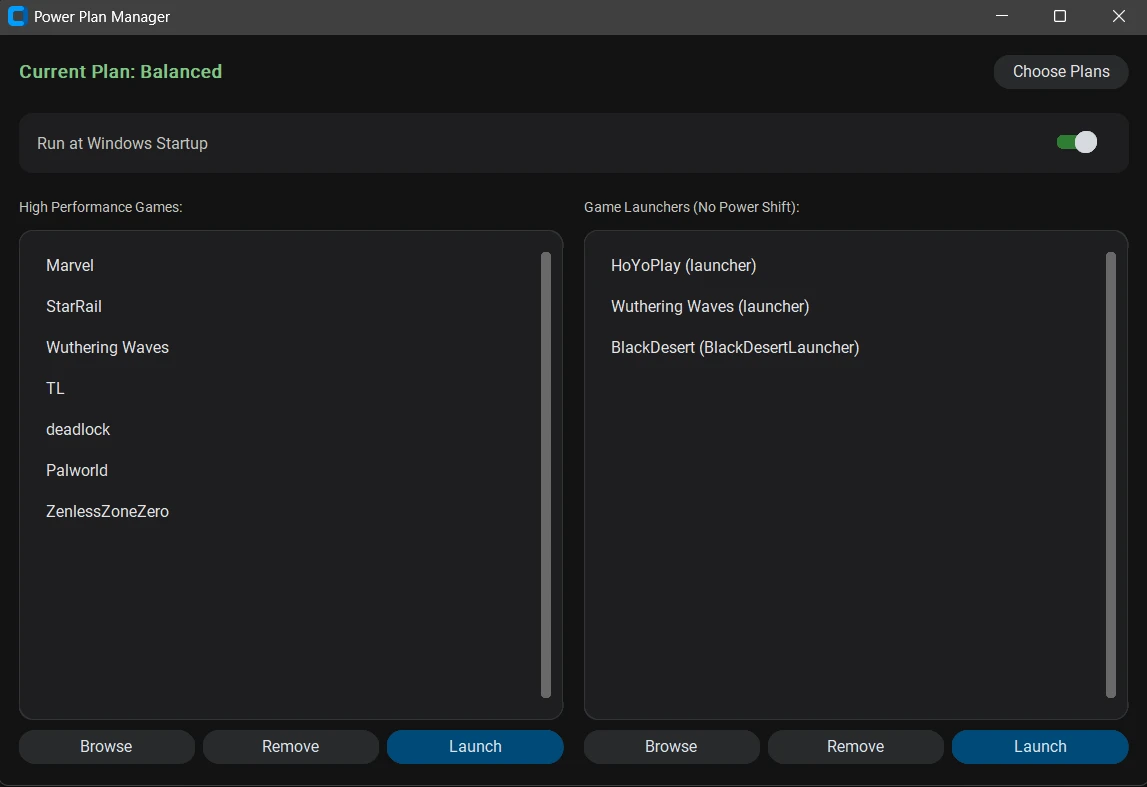
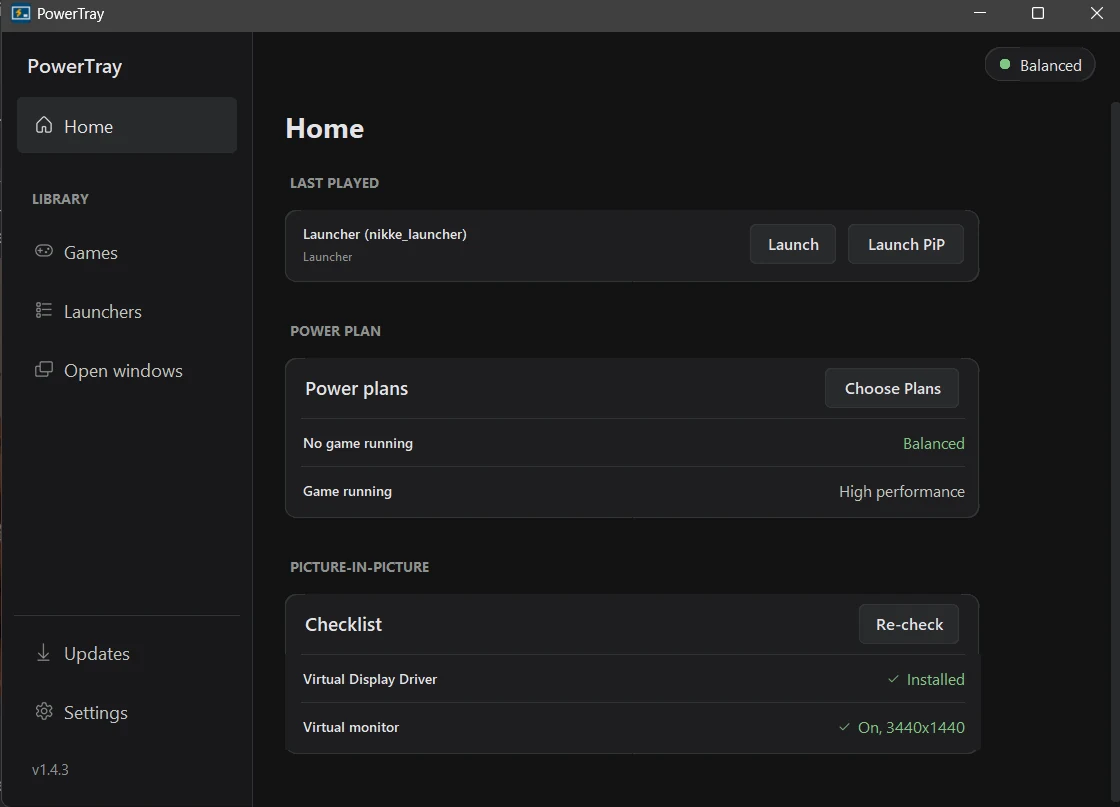
Update PowerTray for its redesign and PiP, and add Daeva Kit
PowerTray's repo is now private, so its repo and release links are
removed; the copy covers picture-in-picture and the screenshots show the
new window. Daeva Kit is listed without links, with sample-data
screenshots.

diff --git a/src/data/projects.ts b/src/data/projects.ts
@@ -4,6 +4,13 @@ import aiWeights from '../assets/projects/ai-game-recommender/model-weights.webp
 import aion2Calculator from '../assets/projects/aion2-crafting-calculator/calculator.webp'
 import clipperAddonsCard from '../assets/projects/clipper-for-youtube/addons-card.webp'
 import clipperPanel from '../assets/projects/clipper-for-youtube/clip-panel.webp'
+import daevaHome from '../assets/projects/daeva-kit/home.webp'
+import daevaStopBar from '../assets/projects/daeva-kit/stop-bar.webp'
+import daevaPingAlert from '../assets/projects/daeva-kit/ping-alert.webp'
+import daevaSpellIcons from '../assets/projects/daeva-kit/spell-icons.webp'
+import daevaPetsPanel from '../assets/projects/daeva-kit/pets-panel.webp'
+import daevaRadar from '../assets/projects/daeva-kit/radar-page.webp'
+import daevaWeather from '../assets/projects/daeva-kit/weather-page.webp'
 import engineMain from '../assets/projects/engine-optimizer/main-window.webp'
 import ilvlDashboard from '../assets/projects/ilvl-upgrade-odds/dashboard.webp'
 import lolRoc from '../assets/projects/lol-win-predictor/roc-comparison.webp'
@@ -15,7 +22,7 @@ import parallelConsole from '../assets/projects/parallel-name-sort/console-outpu
 import pokedexNotFound from '../assets/projects/pokedex/not-found.webp'
 import pokedexResult from '../assets/projects/pokedex/search-result.webp'
 import powertrayMain from '../assets/projects/powertray/main-window.webp'
-import powertrayPlans from '../assets/projects/powertray/plan-picker.webp'
+import powertrayPip from '../assets/projects/powertray/pip-window.webp'
 import powertrayTray from '../assets/projects/powertray/tray-menu.webp'
 import videoEditorMain from '../assets/projects/simple-video-editor/main-window.webp'
 import steamAdd from '../assets/projects/steam-backlog-manager/add-game.webp'
@@ -25,7 +32,7 @@ import marketplaceTracker from '../assets/projects/tl-marketplace-trackers/poten
 import tlStatDefVsCrit from '../assets/projects/tl-stat-calculator/def-vs-crit.webp'
 
 // Mirrors CONTENT.md. Update CONTENT.md first, then this file.
-// Private repos are intentionally not listed yet (see TASKS.md).
+// Private repos are listed without repo or release links (see CONTENT.md).
 
 export const projects: Project[] = [
   // Personal projects
@@ -34,42 +41,49 @@ export const projects: Project[] = [
     name: 'PowerTray',
     category: 'personal',
     summary:
-      'Windows tray utility that switches to the High Performance power plan while games run, then back to Balanced when they close.',
+      'Windows tray utility that switches to High Performance while games run and plays any game in a floating picture-in-picture window.',
     overview:
-      "A lightweight Windows utility that sits in the system tray and watches for the games you choose. When one starts, it switches Windows to the High Performance power plan; when it closes, it switches back to Balanced. A dashboard manages the game list, launchers that shouldn't trigger a switch, and which power plans to use.",
-    tech: ['Python', 'PyQt6', 'CustomTkinter', 'psutil', 'PyInstaller'],
-    repoUrl: 'https://github.com/Oralino/PowerTrayOptimizer',
-    releaseUrl: 'https://github.com/Oralino/PowerTrayOptimizer/releases/latest',
+      "A Windows utility that sits in the system tray and switches Windows to the High Performance power plan while the games you choose are running, then back to Balanced when they close. It can also play any game, launcher or open window as a floating picture-in-picture player, like a browser's pop-out video: the game keeps running at full resolution on an invisible virtual monitor while a small always-on-top window shows it live and passes your mouse and keyboard through.",
+    tech: [
+      'Python',
+      'CustomTkinter',
+      'PyQt6',
+      'pywin32',
+      'psutil',
+      'PyInstaller',
+    ],
     featured: true,
     features: [
-      'Multi-threaded monitoring of configured game processes with psutil',
-      'Switches between Balanced and High Performance power plans through Windows powercfg',
-      'Drag-and-drop executable management, configurable power plans and Windows startup integration',
-      'Real-time tray status indicators',
-      'Extracts executable icons through the Win32 API',
-      'Parses Steam appmanifest files to launch installed Steam games by app ID',
+      'Watches the configured game processes with psutil and switches power plans through Windows powercfg',
+      'Picture-in-picture for any game, launcher or open window: a live DWM thumbnail of the game, which runs on a virtual monitor from the bundled Virtual Display Driver',
+      'Click into the PiP to play: the mouse and keyboard go to the game, and holding Alt gives the cursor back',
+      "Switches a fullscreen game to windowed for the PiP and back afterwards, and remembers each program's PiP size",
+      'Sidebar window with Home, Games, Launchers and Open windows pages; drag in .exe files or shortcuts, which keep their launch arguments',
+      "Tray menu with the games' extracted icons, Launch in PiP and Steam Library, plus self-updates checked by size and SHA-256",
     ],
     images: [
       {
         src: powertrayMain,
-        width: 1147,
-        height: 787,
-        alt: 'PowerTray main window: current plan Balanced, a Run at Windows Startup toggle, and lists of high-performance games and game launchers',
-        caption: 'Main window with the game and launcher lists',
+        width: 1120,
+        height: 807,
+        alt: "PowerTray's Home page: a sidebar with Home, Games, Launchers, Open windows, Updates and Settings; the last played launcher with Launch and Launch PiP buttons; Balanced when no game is running and High performance when one is; and a PiP checklist with the Virtual Display Driver installed and the virtual monitor on at 3440x1440",
+        caption:
+          'Home page with the last played game, power plans and PiP checklist',
+      },
+      {
+        src: powertrayPip,
+        width: 2000,
+        height: 815,
+        alt: "PowerTray's window on the left showing High Performance while Wuthering Waves plays in a floating picture-in-picture window at the bottom right, both in front of a white canvas",
+        caption:
+          'A game playing in the picture-in-picture window, in front of other windows',
       },
       {
         src: powertrayTray,
-        width: 322,
-        height: 517,
-        alt: 'Tray menu listing configured games and launchers with their icons, plus Steam Library, Show Window and Exit',
-        caption: 'Tray menu with extracted game icons',
-      },
-      {
-        src: powertrayPlans,
-        width: 450,
-        height: 311,
-        alt: 'Select Power Plans dialog with dropdowns for the Balanced and High Performance plans',
-        caption: 'Choosing which power plans to switch between',
+        width: 440,
+        height: 675,
+        alt: 'Tray menu listing games and launchers with their icons, then Launch in PiP and PiP a running window submenus, Steam Library, Show Window and Exit',
+        caption: 'Tray menu with Launch in PiP',
       },
     ],
   },
@@ -147,6 +161,85 @@ export const projects: Project[] = [
         height: 72,
         alt: "Clipper for YouTube in Firefox's add-ons manager, switched on",
         caption: "Installed in Firefox's add-ons manager",
+      },
+    ],
+  },
+  {
+    slug: 'daeva-kit',
+    name: 'Daeva Kit',
+    category: 'personal',
+    summary:
+      "Windows toolkit for AION 2 that reads the game's own network traffic for a minimap radar, ping meter, skill cooldowns and pet tracking.",
+    overview:
+      "A Windows toolkit for AION 2: one tray app with a page per tool. It reads the game client's own network traffic and the screen, then draws click-through overlays over the game: a radar that marks nearby cubes on the minimap with their distance and direction, markers on the world map, a ping meter with lag alerts, skill cooldown and buff icons, and a panel for the pet souls you're farming. It never sends or changes packets, touches the game's memory or automates input.",
+    tech: [
+      'Python',
+      'Scapy',
+      'Npcap',
+      'NumPy',
+      'mss',
+      'Tkinter',
+      'PyInstaller',
+    ],
+    features: [
+      "Read-only packet capture with Scapy and Npcap, decoding the game's LZ4-compressed messages; works through ping boosters like ExitLag via loopback capture",
+      'Minimap radar with distance rings, a line to the nearest cube and toasts; finds the minimap on screen by itself and learns new spawn types from clips you mark in game',
+      "Ping meter with the in-game ping, the network round-trip and the last minute's maximum, and lag alerts that say whether a spike came from the PC, the network or the server",
+      "Skill cooldown and buff icons you place anywhere over the game, with key capture and snapping into rows; skill names and icons from NC's public character pages",
+      "Pet panel with the souls the pet you're farming needs for its next level, and which monsters in view drop pet souls",
+      'World map markers with a category filter, and a bar at the minimap with Stop, the ping, the weather from Open-Meteo and a button for the NotMeter DPS meter',
+      'Tray app with a setup checklist, Start with Windows, a global Play / Stop hotkey and self-updates checked by size and SHA-256; overlays hidden from screen capture',
+    ],
+    images: [
+      {
+        src: daevaHome,
+        width: 900,
+        height: 640,
+        alt: "Daeva Kit's Home page: a sidebar with Radar, Pets, Spells, World map, DPS meter, Ping meter and Weather; a green Play button; and a checklist with Npcap installed, Administrator yes, minimap set up and game found",
+        caption: 'Home page with the before-playing checklist',
+      },
+      {
+        src: daevaStopBar,
+        width: 528,
+        height: 67,
+        alt: 'The bar at the minimap: a status dot, Stop, DPS, a 38 ms ping, 18°C with a cloudy weather icon, and a move handle',
+        caption:
+          'The bar at the minimap with the ping and weather (sample data)',
+      },
+      {
+        src: daevaPingAlert,
+        width: 433,
+        height: 118,
+        alt: 'Ping panel showing 1210 ms in red, NET 19 and MAX 1210, with a red alert: ping 1210 server, network 60, freeze 450, 3s ago',
+        caption: 'A lag alert in the ping panel (sample data)',
+      },
+      {
+        src: daevaSpellIcons,
+        width: 310,
+        height: 138,
+        alt: 'Skill and buff icons over the game: two buff timers at 24 and 0.7 seconds above five skills on keys 1, 2, Q, E and S+F, three of them cooling down',
+        caption: 'Skill cooldown and buff icons (sample data)',
+      },
+      {
+        src: daevaPetsPanel,
+        width: 329,
+        height: 217,
+        alt: 'Pets panel: a Cogni pet, 3 of its monsters in view, 41 of 75 souls with 34 to Lv3, and 4 more pets nearby',
+        caption: 'Pets panel with the pet being farmed (sample data)',
+      },
+      {
+        src: daevaRadar,
+        width: 900,
+        height: 640,
+        alt: 'Radar page: the on/off switch and overlay options for radar style (disc or dots), distance rings, distance labels, the no-position hint and a toast for every new cube',
+        caption: 'Radar settings',
+      },
+      {
+        src: daevaWeather,
+        width: 900,
+        height: 640,
+        alt: 'Weather page: the on/off switch, a sample place of Seoul, South Korea with Find my city and Change buttons, Celsius or Fahrenheit, and a switch to show it on the folded Stop bar',
+        caption: 'Weather settings (sample place)',
       },
     ],
   },

diff --git a/CONTENT.md b/CONTENT.md
@@ -4,8 +4,9 @@ Source of truth for **what the site says**: projects, descriptions and copy. `DE
 looks; `CLAUDE.md` covers how it's built. The site reads this content from `src/data/projects.ts`;
 update this file first, then mirror the change there.
 
-Currently in `src/data/projects.ts`: every project below with a **public** repo. Private ones are not
-listed yet (decision pending in `TASKS.md`).
+Currently in `src/data/projects.ts`: every project below with a **public** repo, plus PowerTray and
+Daeva Kit, which are private by the owner's choice (not open source) and listed without repo or release
+links. Private coursework is not listed yet (decision pending in `TASKS.md`).
 
 Rules:
 - Pull project descriptions from each project's README and code. Never invent features, metrics or results.
@@ -32,7 +33,7 @@ Source folders live in `C:\Documents\Script\`.
 
 | Project | Local folder | Repo | Summary |
 |---|---|---|---|
-| PowerTray | `../PowerTray` | https://github.com/Oralino/PowerTrayOptimizer | Windows tray utility that switches to the High Performance power plan while games run, then back to Balanced when they close |
+| PowerTray | `../PowerTray` | https://github.com/Oralino/PowerTrayOptimizer (private, not linked) | Windows tray utility that switches to High Performance while games run and plays any game in a floating picture-in-picture window |
 | TL Stat Calculator | `../TLStatCalculator` | https://github.com/Oralino/TL-Stat-Calculator | Desktop app for Throne & Liberty combat formulas, hidden stat thresholds and gear trade-offs |
 | Simple Video Editor | `../VideoEditor` | https://github.com/Oralino/SimpleVideoEditor | Video trimming and audio mixing tool with drag-and-drop, hardware-accelerated encoding and dual-track volume controls |
 | iLvl Upgrade Odds | `../iLvl Upgrade Odds` | https://github.com/Oralino/iLvl-Upgrade-Odds | Desktop app showing the upgrade and failure chance for one attempt at raising an item's level |
@@ -40,6 +41,7 @@ Source folders live in `C:\Documents\Script\`.
 | TNL API Scrapper | `../TNLPotentialScrapper` | https://github.com/Oralino/TNL-API-Scrapper | Node.js scraper for Throne & Liberty data |
 | Clipper for YouTube | (GitHub only) | https://github.com/Oralino/youtube-clipper | Firefox and Chrome extension that clips part of a YouTube video and saves it as an MP4 |
 | Aion2 Crafting Calculator | `../Aion2 Crafting Calculator` | https://github.com/Oralino/aion2-crafting-calculator | Windows desktop app for AION 2 that works out a craft's real cost and profit, reading market prices from the screen |
+| Daeva Kit | `../Cube Finder` | https://github.com/Oralino/daeva-kit (private, not linked) | Windows toolkit for AION 2 that reads the game's own network traffic for a minimap radar, ping meter, skill cooldowns and pet tracking |
 
 Not yet on GitHub (confirm before including): `Daily Job Search Agent`, `job_search_agent`.
 
@@ -80,13 +82,22 @@ Overview and feature list for each detail page, written from the repo's README, 
 where there was no README. Figures are the projects' own printed results. Mirrored in
 `src/data/projects.ts`.
 
-**PowerTray**: A lightweight Windows utility that sits in the system tray and watches for the games you choose. When one starts, it switches Windows to the High Performance power plan; when it closes, it switches back to Balanced. A dashboard manages the game list, launchers that shouldn't trigger a switch, and which power plans to use.
-- Multi-threaded monitoring of configured game processes with psutil
-- Switches between Balanced and High Performance power plans through Windows powercfg
-- Drag-and-drop executable management, configurable power plans and Windows startup integration
-- Real-time tray status indicators
-- Extracts executable icons through the Win32 API
-- Parses Steam appmanifest files to launch installed Steam games by app ID
+**PowerTray**: A Windows utility that sits in the system tray and switches Windows to the High Performance power plan while the games you choose are running, then back to Balanced when they close. It can also play any game, launcher or open window as a floating picture-in-picture player, like a browser's pop-out video: the game keeps running at full resolution on an invisible virtual monitor while a small always-on-top window shows it live and passes your mouse and keyboard through.
+- Watches the configured game processes with psutil and switches power plans through Windows powercfg
+- Picture-in-picture for any game, launcher or open window: a live DWM thumbnail of the game, which runs on a virtual monitor from the bundled Virtual Display Driver
+- Click into the PiP to play: the mouse and keyboard go to the game, and holding Alt gives the cursor back
+- Switches a fullscreen game to windowed for the PiP and back afterwards, and remembers each program's PiP size
+- Sidebar window with Home, Games, Launchers and Open windows pages; drag in .exe files or shortcuts, which keep their launch arguments
+- Tray menu with the games' extracted icons, Launch in PiP and Steam Library, plus self-updates checked by size and SHA-256
+
+**Daeva Kit**: A Windows toolkit for AION 2: one tray app with a page per tool. It reads the game client's own network traffic and the screen, then draws click-through overlays over the game: a radar that marks nearby cubes on the minimap with their distance and direction, markers on the world map, a ping meter with lag alerts, skill cooldown and buff icons, and a panel for the pet souls you're farming. It never sends or changes packets, touches the game's memory or automates input.
+- Read-only packet capture with Scapy and Npcap, decoding the game's LZ4-compressed messages; works through ping boosters like ExitLag via loopback capture
+- Minimap radar with distance rings, a line to the nearest cube and toasts; finds the minimap on screen by itself and learns new spawn types from clips you mark in game
+- Ping meter with the in-game ping, the network round-trip and the last minute's maximum, and lag alerts that say whether a spike came from the PC, the network or the server
+- Skill cooldown and buff icons you place anywhere over the game, with key capture and snapping into rows; skill names and icons from NC's public character pages
+- Pet panel with the souls the pet you're farming needs for its next level, and which monsters in view drop pet souls
+- World map markers with a category filter, and a bar at the minimap with Stop, the ping, the weather from Open-Meteo and a button for the NotMeter DPS meter
+- Tray app with a setup checklist, Start with Windows, a global Play / Stop hotkey and self-updates checked by size and SHA-256; overlays hidden from screen capture
 
 **Aion2 Crafting Calculator**: A Windows desktop app for AION 2 that works out what a craft really costs and whether it's worth doing. Pick a recipe and it lays out the whole combo chain tier by tier, using your in-game success chance and the 25% combo chance to work out how many crafts each tier needs. Press F10 on the in-game market and it reads the listed prices straight from the screen, then shows the total cost and the profit after the 10% market tax.
 - Every craftable weapon, armour and accessory recipe with its full combo chain, with search that matches words in any order
@@ -197,11 +208,14 @@ Existing images that can be reused (copy into `src/assets/projects/<slug>/`, opt
 - Engine Optimizer: UML diagram (currently a PDF; export an image if wanted)
 
 In use (WebP in `src/assets/projects/<slug>/`). Every project detail page has at least one image:
-- From repo READMEs: PowerTray (3), Simple Video Editor, iLvl Upgrade Odds, TL Marketplace Trackers,
+- From repo READMEs: Simple Video Editor, iLvl Upgrade Odds, TL Marketplace Trackers,
   Match Tracker (2), Clipper for YouTube (2), Aion2 Crafting Calculator
 - Captured by running the project: Steam Backlog Manager (3, local run at 1440×900), Parallel Name Sort
   (console window), Engine Optimizer (real window with a **sample** profile; the MongoDB cluster no
   longer resolves), Pokédex (search result and error state), TL Stat Calculator (Def vs Crit Res tab)
+- Provided by the owner: PowerTray (3: Home page, PiP composite on a white canvas on purpose, tray menu),
+  Daeva Kit (7 from `../Cube Finder/screenshots`, all sample data; the world map, DPS, pets, spells,
+  ping, settings and updates pages are left out)
 - Plots: AI Game Recommender, MAGIC Gamma Classifier, LoL Win Predictor (listed above)
 - TNL API Scrapper: no image by owner decision (the tracker site needs a login to return data)
 

diff --git a/TASKS.md b/TASKS.md
@@ -19,6 +19,9 @@ Owner-only items are marked **(owner)**.
 
 ## Done
 
+- [x] PowerTray updated for its redesign and picture-in-picture (new copy, owner's screenshots); its repo
+      is now private, so the repo and release links are gone. Daeva Kit added (private, no links,
+      owner's sample-data screenshots). Featured: PowerTray, Aion2 Crafting Calculator, Clipper for YouTube
 - [x] **Launched** at https://oralino.github.io (2026-09-24): history audited (no secrets or personal
       data), commit identity rewritten to Oralino's no-reply address, repo recreated public, Pages source
       GitHub Actions, deploy verified including the `/projects/powertray` deep link
